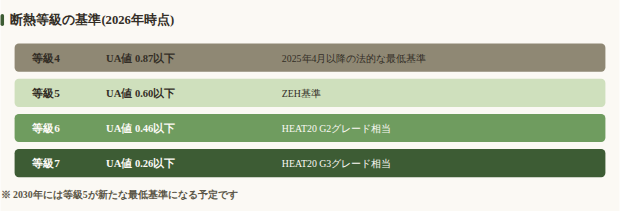
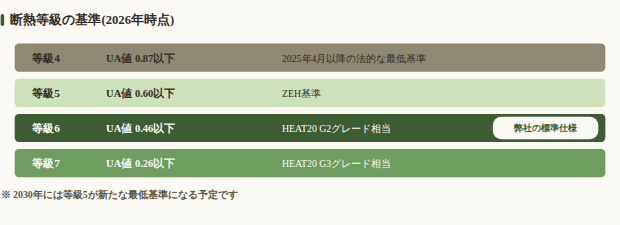
断熱等級記事を実データで訂正(気候データ・自社断熱等級・動画URL)
まえちゃんから提供された実データを反映:
- 知多半島・三河湾沿岸部の気候(冬強い風・夏強い日射、午後は陸から海への風、
  高浜市は冬0度を下回らず夏は40度超えることもある)で地域段落を訂正
- 「弊社は断熱等級6(HEAT20 G2相当)で施工」を本文・FAQ・図3に反映
  (図3は等級6の行に「弊社の標準仕様」タグを追加)
- 中盤のYouTube導線に動画タイトル・URLを反映

Claude-Session: https://claude.ai/code/session_01Cb1Ti7AbAEfmvyeFYPVzfM

diff --git a/articles/2026-09-18-dannetsutoukyu-natsu-atsusa.figures.py b/articles/2026-09-18-dannetsutoukyu-natsu-atsusa.figures.py
@@ -69,29 +69,34 @@ def fig_hisashi_kouka():
 
 # ── 図3: 断熱等級の基準(2026年時点) ──────────────────────
 def fig_toukyu_kijun():
-    W, H = 880, 300
+    W, H = 880, 320
     s = []
     s.append(heading(0, 34, '断熱等級の基準(2026年時点)', 18))
 
     rows = [
-        ('等級4', 'UA値 0.87以下', '2025年4月以降の法的な最低基準', MUTE),
-        ('等級5', 'UA値 0.60以下', 'ZEH基準', BLUE_L),
-        ('等級6', 'UA値 0.46以下', 'HEAT20 G2グレード相当', BLUE),
-        ('等級7', 'UA値 0.26以下', 'HEAT20 G3グレード相当', NAVY),
+        ('等級4', 'UA値 0.87以下', '2025年4月以降の法的な最低基準', MUTE, None),
+        ('等級5', 'UA値 0.60以下', 'ZEH基準', BLUE_L, None),
+        ('等級6', 'UA値 0.46以下', 'HEAT20 G2グレード相当', NAVY, '弊社の標準仕様'),
+        ('等級7', 'UA値 0.26以下', 'HEAT20 G3グレード相当', BLUE, None),
     ]
     y0 = 62
     row_h = 50
-    for i, (grade, ua, note, color) in enumerate(rows):
+    for i, (grade, ua, note, color, tag) in enumerate(rows):
         y = y0 + i * row_h
         tcol = SURF if color in (BLUE, NAVY) else INK
         s.append(box(20, y, 840, row_h - 10, color, color, 0, 6))
         s.append(txt(45, y + 26, grade, 16, tcol, '700'))
         s.append(txt(150, y + 26, ua, 15, tcol, '700'))
         s.append(txt(400, y + 26, note, 14, tcol, '400'))
+    # 「弊社の標準仕様」タグを等級6の行に重ねて表示
+    tag_row_y = y0 + 2 * row_h
+    s.append(box(700, tag_row_y + 4, 150, row_h - 18, SURF, SURF, 0, 12))
+    s.append(txt(775, tag_row_y + (row_h - 10) / 2 + 5, '弊社の標準仕様', 13, NAVY, '700', 'middle'))
+
     s.append(txt(0, y0 + 4 * row_h + 20, '※ 2030年には等級5が新たな最低基準になる予定です', 14, INK2, '700'))
     return wrap(''.join(s), W, H,
                 '断熱等級の基準一覧(2026年時点)',
-                '等級4はUA値0.87以下で2025年4月以降の法的な最低基準、等級5はUA値0.60以下でZEH基準、等級6はUA値0.46以下でHEAT20のG2グレード相当、等級7はUA値0.26以下でHEAT20のG3グレード相当。2030年には等級5が新たな最低基準になる予定。')
+                '等級4はUA値0.87以下で2025年4月以降の法的な最低基準、等級5はUA値0.60以下でZEH基準、等級6はUA値0.46以下でHEAT20のG2グレード相当で弊社の標準仕様、等級7はUA値0.26以下でHEAT20のG3グレード相当。2030年には等級5が新たな最低基準になる予定。')
 
 
 FIGURES = {

diff --git a/articles/2026-09-18-dannetsutoukyu-natsu-atsusa.nyuko.md b/articles/2026-09-18-dannetsutoukyu-natsu-atsusa.nyuko.md
@@ -93,10 +93,57 @@ dannetsutoukyu-natsu-atsusa
 - 2030年に等級5が最低基準になる予定 — 政府方針として広く言われている情報。本文には「予定」と明記済み
 - **これらは2026年時点の情報です。** 制度が変わった場合は記事の更新が必要になります
 
-## 確認をお願いしたいこと
+## 中盤のYouTube導線（確定）
 
-1. **中盤のYouTube導線** — 日射遮蔽・庇の設計事例に関する動画があれば、URLを教えてください（プレースホルダーのまま送っています）
-2. **知立市を主軸にした地域の書き方について** — 「知立市をはじめ西三河の内陸エリアは海からの風が届きにくく熱がこもりやすい」という記述は一般的な地理的傾向からの記述です。実際の施工経験と違う印象があれば教えてください
+まえちゃんよりご提供いただいた動画を掲載します。本文中の「実際の日射遮蔽の設計事例は、
+YouTubeでも紹介しています。」の直後に、次のリンクを追加してください。
+
+```
+▶ ダブル断熱のメリットを１級建築士が徹底解説！断熱以外に必要なのか？
+　https://youtu.be/qviAI5FLGBU
+```
+
+## 地域の気候データ（確定・本文を訂正済み）
+
+まえちゃんから実際の気候データをいただき、本文を訂正しました。
+
+> 知多半島は海に囲まれているし、三河も海に面している地区では、冬は風が強く、夏は日射が強い。
+> 午後からは陸地から海に向かって風が吹く。高浜市では冬に0度を下回ることはほとんどなく温暖。
+> その代わり夏は40度を超えることもあり、10月でも半袖でいいぐらい暑い。
+
+この情報をもとに、「知立市（内陸・熱がこもりやすい）」と「高浜市など沿岸部（冬温暖・夏酷暑）」
+を対比させる形に本文を修正しました。実感のこもった、他社にはない地域データです。
+
+## 弊社の断熱等級（確定・本文と図3を訂正済み）
+
+「私たちは断熱等級６で施工しています」とのご回答をいただき、断熱等級の基準セクションに
+「弊社では標準仕様として断熱等級6（HEAT20のG2グレード相当）で施工しています」を追記し、
+図3（断熱等級の基準一覧）の等級6の行に「弊社の標準仕様」のタグを追加しました。
+C値記事と同じく、自社基準を数値で示す形にしています。FAQの回答にも反映済みです。
+
+## Googleドキュメントへの反映（本人による手作業が必要）
+
+**ドキュメントの本文は自動更新できないため、まえちゃんご自身で以下を修正してください。**
+
+**①中盤のYouTubeリンク** — プレースホルダー箇所に、上記の動画タイトルとURLを貼ってください。
+
+**②「知立市・西三河・知多で夏の暑さ対策を考えるときに」の段落**を、以下に差し替えてください。
+
+```
+知立市をはじめ西三河の内陸エリアは、海からの風が届きにくく、夏場に熱がこもりやすい傾向があります。一方、高浜市のように知多半島・三河湾に面したエリアは、冬は風が強く、夏は日射が強いのが特徴です。午後になると、陸地から海に向かって風が吹き抜けます。
+
+高浜市では、冬に気温が0度を下回ることはほとんどなく、比較的温暖です。その代わり夏は40度を超えることもあり、10月に入ってもまだ半袖で過ごせるほどの暑さが続きます。冬の寒さより、夏の暑さ対策のほうが体感として重要度が高いエリアだと言えます。
+
+同じ「西三河・知多」というくくりでも、内陸か沿岸かで効く対策の重心が変わります。内陸エリアでは熱がこもらないよう日射遮蔽を、沿岸エリアでは強い日射と風の両方を意識した窓計画を取り入れることが、夏を快適に過ごすための近道になります。
+```
+
+**③「断熱等級の基準は、今どこまで求められているか」の段落の最後**に、以下を追加してください。
+
+```
+弊社では、標準仕様として断熱等級6（HEAT20のG2グレード相当）で施工しています。高浜市のように夏の日射が強く、40度を超えることもある地域だからこそ、断熱性能は余裕を持たせておくべきだと考えています。
+```
+
+**④［図3］の画像** — 送付済みの新しいPNG（等級6に「弊社の標準仕様」タグ付き）に差し替えてください。
 
 ## 公開後にやること
 
